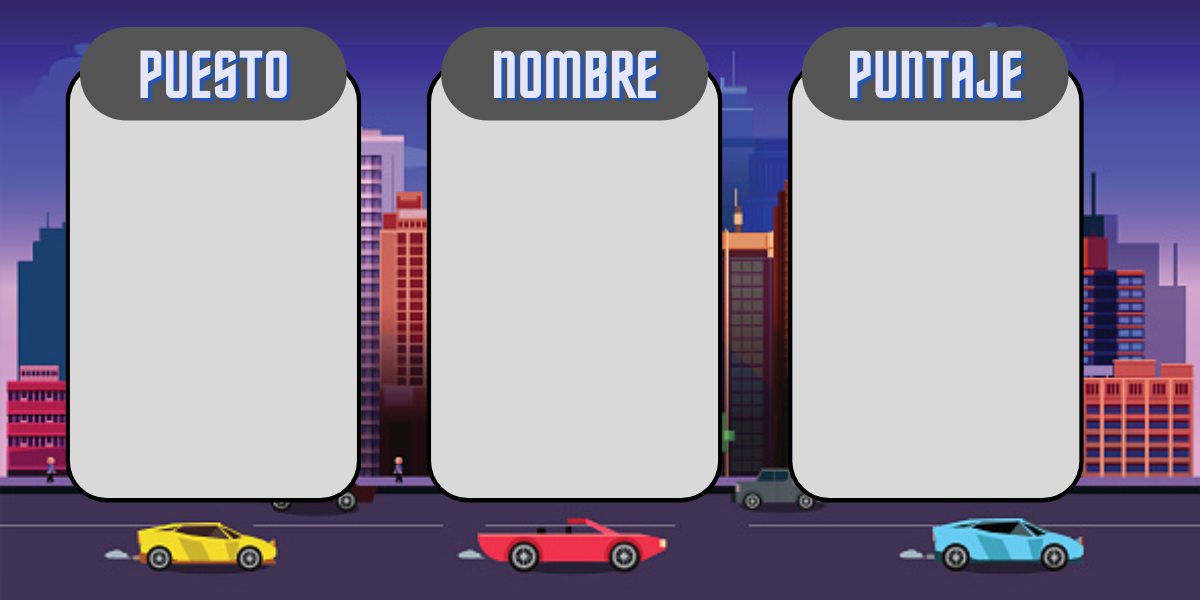
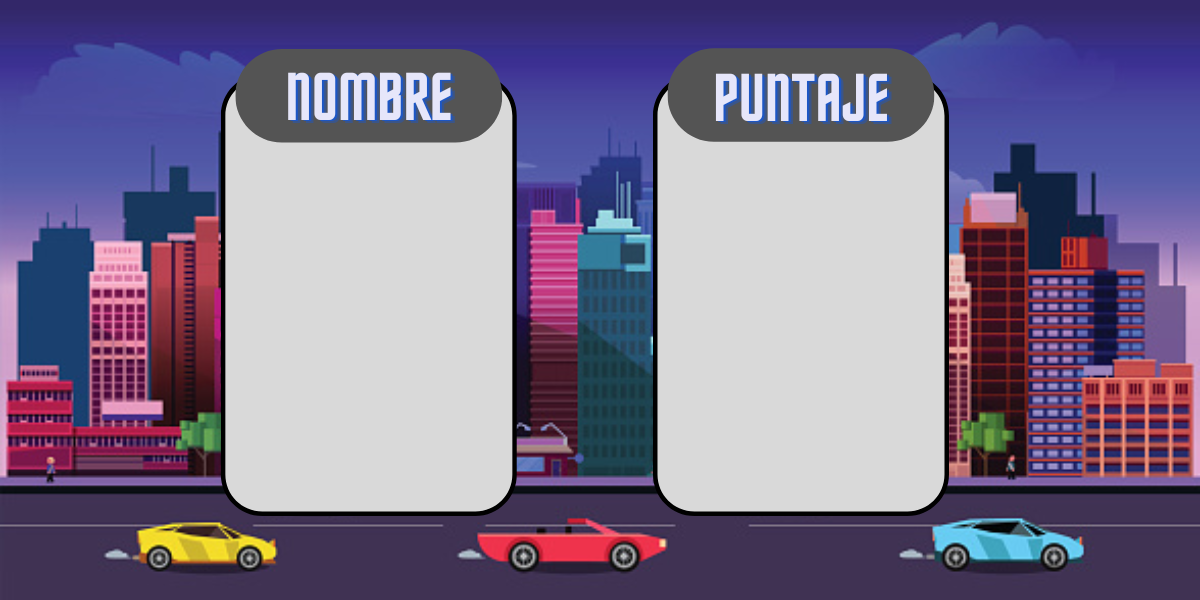
Agregamos mejoras a la VistaFinal

diff --git a/src/main/java/edu/fiuba/algo3/Vista/VistaInicial.java b/src/main/java/edu/fiuba/algo3/Vista/VistaInicial.java
@@ -4,6 +4,7 @@ import edu.fiuba.algo3.Controlador.ControladorOpciones;
 import javafx.application.Application;
 import javafx.scene.Group;
 import javafx.scene.Scene;
+import javafx.scene.control.Alert;
 import javafx.scene.control.Button;
 import javafx.scene.control.TextField;
 import javafx.scene.layout.HBox;
@@ -29,6 +30,7 @@ public class VistaInicial {
   private Button motoBtn = new Button();
   private Button auto4x4Btn = new Button();
   private Button btnJugar = new Button();
+  private Alert alerta;
 
   private Stage stage;
 
@@ -112,13 +114,28 @@ public class VistaInicial {
 
     this.btnJugar.setOnAction(
         evento -> {
-          this.nickname = this.nombreInput.getText();
-          new ControladorOpciones(this.nickname, this.vehiculoElegido);
-          // System.out.println("hola");
-          try {
-            new VistaMapa(this.stage).mostrarVistaMapa();
-          } catch (Exception e) {
-            e.printStackTrace();
+          String mensaje = "Debes ingresar un NOMBRE VALIDO";
+          if(this.nombreInput.getText() == "" || this.nombreInput.getText().length() > 15){
+            this.alerta = new Alert(Alert.AlertType.WARNING);
+            if(this.vehiculoElegido == null){
+              mensaje += " y un VEHICULO";
+            }
+            this.alerta.setContentText(mensaje);
+            this.alerta.showAndWait();
+          }
+          else if(this.vehiculoElegido == null){
+            this.alerta = new Alert(Alert.AlertType.WARNING);
+            this.alerta.setContentText("Debes elegir un VEHICULO");
+            this.alerta.showAndWait();
+          }
+          else {
+            this.nickname = this.nombreInput.getText();
+            new ControladorOpciones(this.nickname, this.vehiculoElegido);
+            try {
+              new VistaMapa(this.stage).mostrarVistaMapa();
+            } catch (Exception e) {
+              e.printStackTrace();
+            }
           }
         });
   }

diff --git a/src/main/java/edu/fiuba/algo3/Vista/VistaFinal.java b/src/main/java/edu/fiuba/algo3/Vista/VistaFinal.java
@@ -6,12 +6,14 @@ import javafx.event.EventHandler;
 import javafx.scene.Group;
 import javafx.scene.Scene;
 import javafx.scene.control.Label;
+import javafx.scene.image.Image;
+import javafx.scene.layout.*;
 import javafx.scene.paint.Color;
 import javafx.scene.text.Text;
 import javafx.stage.Stage;
 
 
-
+import java.io.File;
 import java.util.ArrayList;
 
 public class VistaFinal  {
@@ -27,7 +29,7 @@ public class VistaFinal  {
     private Stage stage;
     private ControladorVistaFinal controladorFinal = new ControladorVistaFinal();
     private ArrayList items = new ArrayList();
-    private Group group = new Group();
+    private Pane group = new Pane();
     private ArrayList elements = new ArrayList<>();
 
 
@@ -53,14 +55,22 @@ public class VistaFinal  {
 
         for(int i =0;i< infoRankings.size();i++){
             Text nombre = new Text(infoRankings.get(i));
-            nombre.setX(200);
-            nombre.setY(100+(i*25));
+            nombre.setX(300);
+            nombre.setY(175+(i*35));
             this.elements.add(nombre);
             System.out.println(infoRankings.get(i));
         }
 
 
-        Scene scene = new Scene(this.group,800,800, Color.AQUAMARINE);
+        Scene scene = new Scene(this.group,1200,600);
+        Image img = new Image(new File("docs/ranking.png").toURI().toString());
+        BackgroundImage bImg = new BackgroundImage(img,
+                BackgroundRepeat.NO_REPEAT,
+                BackgroundRepeat.NO_REPEAT,
+                BackgroundPosition.DEFAULT,
+                BackgroundSize.DEFAULT);
+        Background bGround = new Background(bImg);
+        this.group.setBackground(bGround);
         this.group.getChildren().addAll(this.elements);
         this.stage.setScene(scene);
         this.stage.setMaximized(true);

diff --git a/src/main/java/edu/fiuba/algo3/Modelo/Partida.java b/src/main/java/edu/fiuba/algo3/Modelo/Partida.java
@@ -13,7 +13,7 @@ public class Partida {
   public ArrayList<String> actualizarPodio(String nickname, Integer puntaje) {
     // Leer el archivo
     this.leer_archivo();
-    this.podio_viejo.add("Jugador: " + nickname + " Puntaje: " + puntaje);
+    this.podio_viejo.add(nickname + "                                                                                                                                       " + puntaje);
     // Escribo el archivo
     this.escribir_archivo();
     // Leer

diff --git a/src/main/java/edu/fiuba/algo3/Vista/VistaMapa.java b/src/main/java/edu/fiuba/algo3/Vista/VistaMapa.java
@@ -119,8 +119,8 @@ public class VistaMapa {
           }
           System.out.println(direccion);
           if (this.controladorMovimientos.partidaCerrada()) {
-            this.sound = new ControladorSonido();
-            sound.playHitSound("docs/sonidoMeta.mp3");
+            //this.sound = new ControladorSonido();
+            //sound.playHitSound("docs/sonidoMeta.mp3");
 
             new VistaFinal(this.stage).mostrarVistaFinal();
           }

diff --git a/src/main/java/edu/fiuba/algo3/AppGpsChallenge.java b/src/main/java/edu/fiuba/algo3/AppGpsChallenge.java
@@ -23,8 +23,8 @@ public class AppGpsChallenge extends Application {
   public void start(Stage primaryStage) throws Exception {
 
     this.primaryStage = primaryStage;
-    this.sound = new ControladorSonido();
-    sound.playHitSound("docs/sonido.mp3");
+    //this.sound = new ControladorSonido();
+    //sound.playHitSound("docs/sonido.mp3");
 
 
     VistaInicial vistaInicial = new VistaInicial(primaryStage);

diff --git a/src/main/java/module-info.java b/src/main/java/module-info.java
@@ -1,7 +1,6 @@
 module edu.fiuba.algo3 {
     requires javafx.controls;
     requires java.desktop;
-    //requires javafx.media;
     requires javafx.fxml;
     requires javafx.media;
     exports edu.fiuba.algo3;
